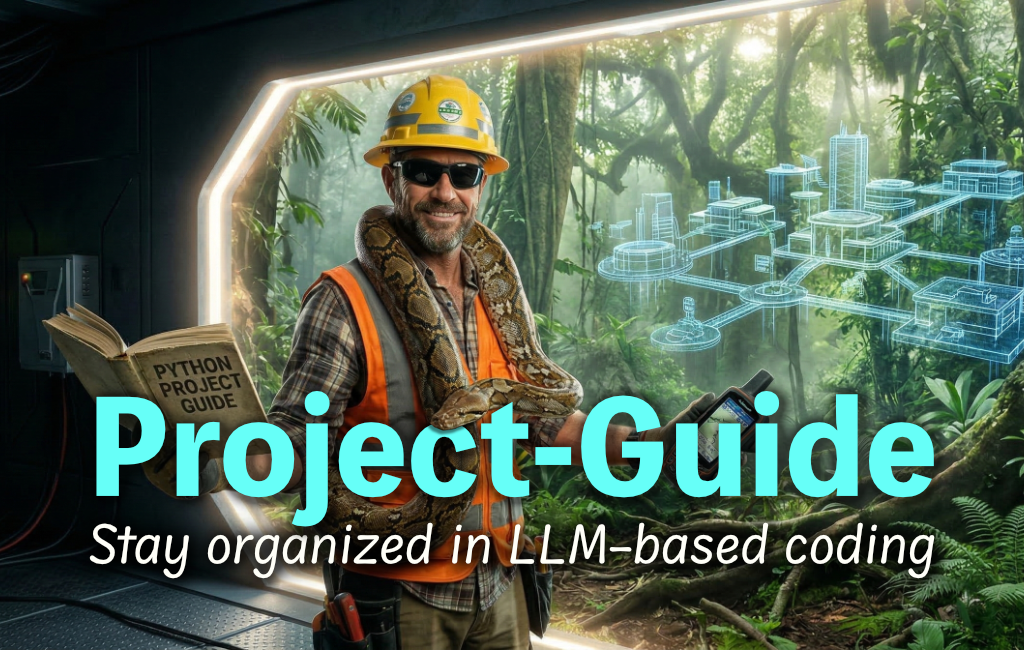
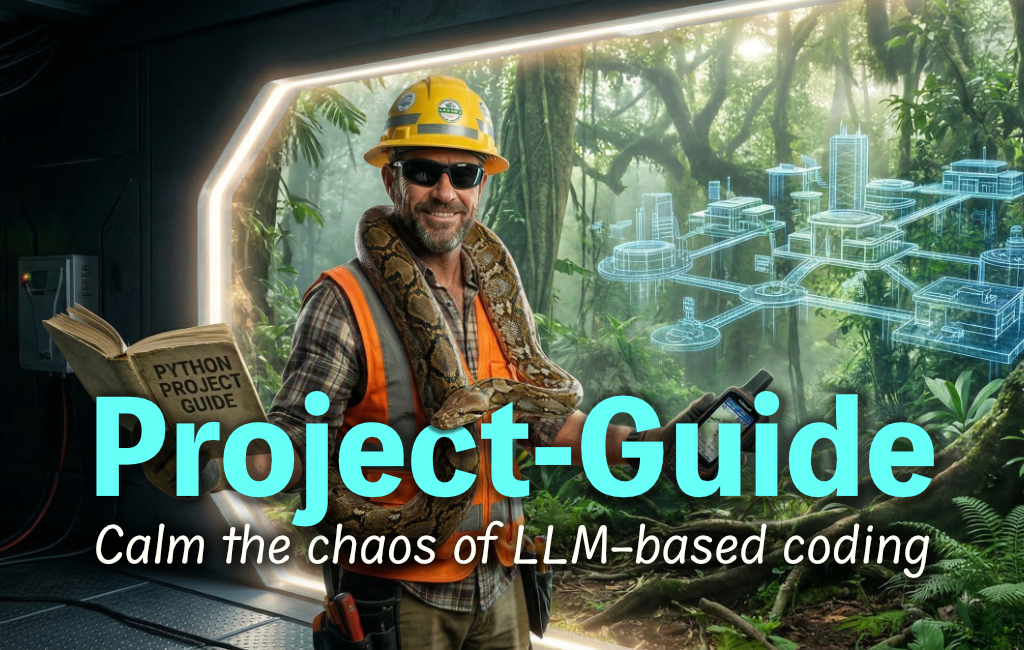
Update README, landing page, and descriptions

Changed region(s): [[0.0938, 0.7692, 0.9375, 0.9231]]

diff --git a/docs/site/index.html b/docs/site/index.html
@@ -4,8 +4,8 @@
     <meta charset="UTF-8">
     <meta name="viewport" content="width=device-width, initial-scale=1.0">
     <title>project-guide - Stay organized in LLM-based coding</title>
-    <meta name="description" content="Stay organized and consistent using LLM workflow guides with project-specific overrides">
-    <meta name="keywords" content="llm, human-in-the-loop, hitloop, documentation, workflow, guides, templates, python, cli, version-management, synchronization, project-management, development-tools, best-practices, override-support, yaml-config, cross-platform">
+    <meta name="description" content="Stay organized and in control with adaptive LLM workflow prompts">
+    <meta name="keywords" content="llm, coding, human-in-the-loop, hitloop, documentation, workflow, guide, templates, python, cli, version-management, synchronization, project-management, development-tools, best-practices, override-support, yaml-config, cross-platform">
     <meta name="author" content="Pointmatic">
     
     <style>
@@ -342,9 +342,7 @@
                 <img src="images/project-guide-banner-landing.png" alt="project-guide banner">
             </div>
             
-            <h1>Stay organized in LLM-based coding</h1>
-            <p class="subtitle">Stay organized and consistent using LLM workflow guides with project-specific overrides</p>
-            
+            <h1>Stay organized and in control with adaptive workflow prompts</h1>
             <div class="hero-description">
                 <p>Install project-guide in any repository with <code>pip install project-guide</code>, run <code>project-guide init</code>, then tell your LLM to "Read <code>docs/guides/project-guide.md</code> and start." The guide walks the LLM through planning documents, breaking work into stories, and implementing each story step-by-step. You just say "proceed" after each step. The developer stays in charge—guiding features, flow, and taste—while the LLM handles the typing.</p>
                 <br>
@@ -411,23 +409,27 @@
                 <div class="feature-grid">
                     <div class="feature-card">
                         <h4>Battle-Tested Workflows</h4>
-                        <p>Crafted guides walk your LLM from project concept through production release—planning docs, stories breakdown, step-by-step implementation.</p>
+                        <p>Crafted workflow prompts from concept through production release in one place.</p>
                     </div>
                     <div class="feature-card">
-                        <h4>Centralized Guide Templates</h4>
-                        <p>Maintain LLM workflow guides in one package and distribute them across all your projects with a single command.</p>
+                        <h4>Adaptive Guidance</h4>
+                        <p>Switch project between plan, code, and debug modes to get the right instructions for each task.</p>
                     </div>
                     <div class="feature-card">
-                        <h4>Smart Version Tracking</h4>
-                        <p>Track which guide versions are installed in each project and update to the latest versions automatically.</p>
+                        <h4>Version Management</h4>
+                        <p>Track and update all prompt docs in a project with a single command.</p>
                     </div>
                     <div class="feature-card">
-                        <h4>Project-Specific Overrides</h4>
-                        <p>Lock customized guides to prevent accidental overwrites while still syncing other guides to latest versions.</p>
+                        <h4>Custom Prompt Lock</h4>
+                        <p>Lock a customized LLM prompt in any project to prevent future updates for that prompt document.</p>
                     </div>
                     <div class="feature-card">
-                        <h4>Sync Latest Improvements</h4>
-                        <p>Pull the newest workflow refinements into all non-overridden guides across projects with one command.</p>
+                        <h4>CLI Interface</h4>
+                        <p>Eight intuitive commands for all operations.</p>
+                    </div>
+                    <div class="feature-card">
+                        <h4>Zero Configuration</h4>
+                        <p>Works out of the box with sensible defaults.</p>
                     </div>
                 </div>
             </div>
@@ -436,20 +438,16 @@
                 <h3>Operational Benefits</h3>
                 <div class="feature-grid">
                     <div class="feature-card">
-                        <h4>Zero Configuration</h4>
-                        <p>Works out of the box with sensible defaults—guides go in <code>docs/guides</code>, no config file needed for basic usage.</p>
-                    </div>
-                    <div class="feature-card">
                         <h4>Clear Status Reporting</h4>
                         <p>See at a glance which guides are current, outdated, overridden, or missing with color-coded status output.</p>
                     </div>
                     <div class="feature-card">
-                        <h4>Automatic Backups</h4>
-                        <p>When updating overridden guides with --force, automatic .bak files preserve your customizations.</p>
+                        <h4>Gentle 'Forced' Updates</h4>
+                        <p>Automatic `.bak` files created if you `--force` update a custom prompt document.</p>
                     </div>
                     <div class="feature-card">
                         <h4>Safe Operations</h4>
-                        <p>Idempotent commands and explicit consent requirements ensure you never lose project-specific customizations.</p>
+                        <p>Idempotent commands and explicit consent requirements protect your project-specific customizations.</p>
                     </div>
                     <div class="feature-card">
                         <h4>Lightweight & Fast</h4>
@@ -461,7 +459,7 @@
                     </div>
                     <div class="feature-card">
                         <h4>Well Tested</h4>
-                        <p>82% test coverage with 59 comprehensive tests ensuring reliability and stability.</p>
+                        <p>Comprehensive test coverage minimum of 75% ensures reliability.</p>
                     </div>
                 </div>
             </div>
@@ -479,7 +477,7 @@
                     </div>
                     <div class="feature-card">
                         <h4>Structured Workflow</h4>
-                        <p>Guides enforce a proven methodology: planning documents, story breakdown, step-by-step implementation, approval gates.</p>
+                        <p>The workflow enforces a focused methodology: planning, coding, debugging, etc. with approval gates for your review.</p>
                     </div>
                 </div>
             </div>

diff --git a/docs/specs/descriptions.md b/docs/specs/descriptions.md
@@ -10,46 +10,48 @@ Canonical source of truth for all descriptive language used across the project. 
 
 ## Tagline
 
-Stay organized in LLM-based coding
+Calm the chaos
 
 ## Long Tagline
 
-Stay organized and consistent using LLM workflow guides with project-specific overrides
+Calm the chaos of LLM-assisted coding 
 
 ## One-liner
 
-Stay organized and consistent using LLM guides across multiple coding projects.
+Stay organized and in control with adaptive LLM workflow prompts
 
 ### Friendly Brief Description (follows one-liner)
 
-Install project-guide in any repository with `pip install project-guide`, run `project-guide init`, then tell your LLM to "Read `docs/guides/project-guide.md` and start." The guide walks the LLM through planning documents, breaking work into stories, and implementing each story step-by-step. You just say "proceed" after each step. The developer stays in charge—guiding features, flow, and taste—while the LLM handles the typing.
+Install project-guide in any repository with `pip install project-guide`, run `project-guide init`, then tell your LLM to "Read `@project-guide.md` (works in many coding tools), or give itthe full path at`docs/project-guide/go-project-guide.md`." The `go-project-guide` prompt provides the LLM with a structured workflow. You just say "go" and the LLM handles each step, pausing for you to review code, test, and commit changes. You stay in charge—guiding features, flow, and taste while the LLM handles the typing.
 
-This is "HITLoop" (human-in-the-loop) development: the developer directs, the LLM executes. The pace is "flaming agile"—an entire production-ready backend can be completed in 6-12 hours. When you customize a guide for your project, mark it as overridden so future package updates skip it. When you want the latest workflow improvements, run `project-guide update` to sync all non-overridden guides. 
+This is "HITLoop" (human-in-the-loop) development: you direct, the LLM executes. The pace is "flaming agile"—an entire production-ready backend can be completed in 6-12 hours. When you customize a prompt for your project, mark it as overridden so future package updates skip it. When you want the latest workflow improvements, run `project-guide update` to sync all non-overridden prompts. 
 
 ## Two-clause Technical Description
 
-A Python CLI tool that installs and synchronizes battle-tested LLM workflow guides across projects, supporting version tracking and project-specific overrides to keep documentation consistent while preserving customizations.
+A Python CLI tool that installs, swaps, and synchronizes battle-tested LLM workflow prompts across projects, supporting version tracking and project-specific overrides to keep documentation consistent while preserving customizations.
 
 ## Benefits
 
-- **Centralized Templates** — Maintain workflow guides (project-guide.md, best-practices-guide.md, debug-guide.md, documentation-setup-guide.md) in one place
-- **Version Management** — Track guide versions across projects and update to latest versions with a single command
-- **Override Support** — Lock specific guides when they contain project-specific customizations, preventing accidental overwrites
-- **Backup Protection** — Automatic `.bak` file creation when updating overridden guides with `--force` flag
-- **CLI Interface** — Seven intuitive commands: init, status, update, override, unoverride, overrides, purge
-- **Zero Configuration** — Works with sensible defaults (docs/guides directory, no config required for basic use)
+- **Battle-Tested Workflows** - Crafted workflow prompts from concept through production release in one place
+- **Adaptive** — Switch project between plan, code, and debug modes to get the right instructions for each task
+- **Version Management** — Track and update all prompt docs in a project with a single command
+- **Customization Lock** - Lock customized prompts to prevent update overwrites
+- **Gentle Force Updates** — Automatic `.bak` files created if you `--force` update a custom prompt document
+- **CLI Interface** — Eight intuitive commands for all operations
+- **Zero Configuration** — Works with sensible defaults out of the box
 - **Cross-Platform** — Runs on macOS, Linux, and Windows with Python 3.11+
-- **Well Tested** — 82% test coverage with 53 comprehensive tests ensuring reliability
+- **Well Tested** — Comprehensive test coverage for reliability
 - **Lightweight** — Minimal dependencies (click, pyyaml, packaging) for fast installation
-- **Safe Operations** — Never overwrites customized guides without explicit consent, idempotent commands
 
 ## Technical Description
 
-Project-Guide is a Python CLI tool that solves the problem of keeping LLM workflow documentation synchronized with an opinionated source of truthacross multiple projects. Just install the PyPI package with `pip` in any repository and start planning and coding with the LLM. It packages canonical versions of development guides (project-guide.md, best-practices-guide.md, debug-guide.md, documentation-setup-guide.md, and more) and provides commands to install, update, and manage them in a `docs/guides` directory in the repo. The tool tracks which package versions were installed for each guide, allows a project to lock specific guides when customized, and provides clear status reporting. It uses a simple YAML configuration file (`.project-guide.yml`) to store project-specific settings and override metadata. The package is distributed via PyPI and can be installed with `pip` locally or `pipx` for system-wide CLI access.
+Project-Guide is a Python CLI tool that solves the problem of keeping LLM workflow documentation synchronized with an opinionated source of truthacross multiple projects. Just install the PyPI package with `pip` in any repository and start planning and coding with the LLM. It packages canonical versions of LLM prompts and provides commands to install, update, and manage them in a `docs/project-guide` directory in any project repo. 
+
+The tool tracks which package versions were installed for each guide, allows a project to lock specific guides when customized, and provides clear status reporting. It uses a simple YAML configuration file (`.project-guide.yml`) to store project-specific settings and override metadata. The package is distributed via PyPI and can be installed with `pip` locally or `pipx` for system-wide CLI access.
 
 ## Keywords
 
-`llm`, `human-in-the-loop`, `hitloop`, `documentation`, `workflow`, `guides`, `templates`, `python`, `cli`, `version-management`, `synchronization`, `project-management`, `development-tools`, `best-practices`, `override-support`, `yaml-config`, `cross-platform`
+`llm`, `coding`, `human-in-the-loop`, `hitloop`, `documentation`, `workflow`, `guide`, `templates`, `python`, `cli`, `version-management`, `synchronization`, `project-management`, `development-tools`, `best-practices`, `override-support`, `yaml-config`, `cross-platform`
 
 ---
 
@@ -59,9 +61,9 @@ Essential steps for getting started with project-guide:
 
 1. **Install**: `pip install project-guide` (or `pipx install project-guide` for system-wide CLI)
 2. **Initialize**: Navigate to your project directory and run `project-guide init`
-3. **Start**: Tell your LLM: "Read `docs/guides/project-guide.md` and start."
-4. **Collaborate**: Say "proceed" after each step as the LLM walks through planning, stories, and implementation
-5. **Customize**: Mark guides as overridden when you customize them: `project-guide override <guide-name>`
+3. **Start**: Tell your LLM: "Read `docs/project-guide/go-project-guide.md`."
+4. **Collaborate**: Say "go" after each step as the LLM walks through planning, stories, and implementation
+5. **Customize**: Mark a prompt document as overridden if you customize it: `project-guide override <filename>`
 6. **Update**: Pull latest workflow improvements: `project-guide update`
 7. **Check Status**: See which guides are current, outdated, or overridden: `project-guide status`
 
@@ -75,32 +77,31 @@ Short blurbs for landing pages and feature grids. Each card has a title and a on
 
 | # | Title | Description |
 |---|-------|-------------|
-| 1 | Battle-Tested Workflows | Crafted guides walk your LLM from project concept through production release—planning docs, stories breakdown, step-by-step implementation. |
-| 2 | Centralized Guide Templates | Maintain LLM workflow guides in one package and distribute them across all your projects with a single command. |
-| 3 | Smart Version Tracking | Track which guide versions are installed in each project and update to the latest versions automatically. |
-| 4 | Project-Specific Overrides | Lock customized guides to prevent accidental overwrites while still syncing other guides to latest versions. |
-| 5 | Sync Latest Improvements | Pull the newest workflow refinements into all non-overridden guides across projects with one command. |
+| 1 | Battle-Tested Workflows | Crafted workflow prompts from concept through production release in one place |
+| 2 | Adaptive Guidance | Switch project between plan, code, and debug modes to get the right instructions for each task |
+| 3 | Version Management | Track and update all prompt docs in a project with a single command |
+| 4 | Custom Prompt Lock | Lock a customized LLM prompt in any project to prevent future updates for that prompt document |
+| 5 | CLI Interface | Eight intuitive commands for all operations |
+| 6 | Zero Configuration | Works out of the box with sensible defaults |
 
 ### Operational Benefits
 
 | # | Title | Description |
 |---|-------|-------------|
-| 6 | Zero Configuration | Works out of the box with sensible defaults—guides go in `docs/guides`, no config file needed for basic usage. |
-| 7 | Clear Status Reporting | See at a glance which guides are current, outdated, overridden, or missing with color-coded status output. |
-| 8 | Automatic Backups | When updating overridden guides with --force, automatic .bak files preserve your customizations. |
-| 9 | Safe Operations | Idempotent commands and explicit consent requirements ensure you never lose project-specific customizations. |
-| 10 | Lightweight & Fast | Minimal dependencies (click, pyyaml, packaging) mean fast installation and no bloat. |
-| 11 | Cross-Platform | Runs on macOS, Linux, and Windows with Python 3.11+ for consistent workflows everywhere. |
-| 12 | Well Tested | 82% test coverage with 53 comprehensive tests ensuring reliability and stability. |
+| 7 | Clear Status Reporting | See at a glance which prompt documents are current, outdated, overridden, or missing with color-coded status output |
+| 8 | Gentle 'Forced' Updates | Automatic `.bak` files created if you `--force` update a custom prompt document |
+| 9 | Safe Operations | Idempotent commands and explicit consent requirements protect your project-specific customizations |
+| 10 | Lightweight | Minimal dependencies (click, pyyaml, packaging) mean fast installation and no bloat |
+| 11 | Cross-Platform | Runs on macOS, Linux, and Windows with Python 3.11+ for consistent workflows everywhere |
+| 12 | Well Tested | Comprehensive test coverage minimum of 75% ensures reliability |
 
 ### Development Philosophy
 
 | # | Title | Description |
 |---|-------|-------------|
-| 13 | HITLoop Development | You direct features, flow, and taste. The LLM handles the typing. Human-in-the-loop collaboration at its best. |
-| 14 | Flaming Agile Pace | Complete an entire production-ready backend in 6-12 hours with structured, methodical LLM collaboration. |
-| 15 | Structured Workflow | Guides enforce a proven methodology: planning documents, story breakdown, step-by-step implementation, approval gates. |
-
+| 13 | HITLoop Development | You direct features, flow, and taste. The LLM handles the typing. Human-in-the-loop collaboration at its best |
+| 14 | Flaming Agile Pace | Complete an entire production-ready backend in 6-12 hours with structured, methodical LLM collaboration |
+| 15 | Structured Workflow | The workflow enforces a focused methodology: planning, coding, debugging, etc. with approval gates for your review |
 
 ---
 
@@ -108,12 +109,10 @@ Short blurbs for landing pages and feature grids. Each card has a title and a on
 
 | File | Which descriptions to use |
 |------|--------------------------|
-| `README.md` line 8 | Two-clause Technical Description (shortened to one sentence) |
-| `README.md` line 12 | Friendly Brief Description (first sentence) |
-| `docs/site/index.html` hero `<h1>` | Tagline |
-| `docs/site/index.html` hero subtitle | Long Tagline |
-| `docs/site/index.html` feature grid | Feature Cards |
-| `pyproject.toml` description | Long Tagline |
-| `docs/specs/features.md` line 11 | Two-clause Technical Description |
-| GitHub Repository description | One-liner + ": " + Long Tagline |
-| GitHub Repository topics | Keywords (without backticks) |
+| `README.md` line 9 | Two-clause Technical Description |
+| `README.md` line 17 | Benefits (inline) |
+| `docs/index.html` hero `<h1>` | One-liner |
+| `docs/index.html` hero `<p>` | Friendly Brief Description |
+| `docs/index.html` feature grid | Feature Cards |
+| `pyproject.toml` description | One-liner |
+| (GitHub Repository) | Tagline + ": "+ One-liner |

diff --git a/README.md b/README.md
@@ -6,7 +6,7 @@
 [![PyPI](https://img.shields.io/pypi/v/project-guide.svg)](https://pypi.org/project/project-guide/)
 [![Documentation](https://img.shields.io/badge/docs-GitHub%20Pages-blue)](https://pointmatic.github.io/project-guide/)
 
-A Python CLI tool that installs and synchronizes battle-tested LLM workflow guides across projects, supporting version tracking and project-specific overrides to keep documentation consistent while preserving customizations.
+A Python CLI tool that installs, swaps, and synchronizes battle-tested LLM workflow prompts across projects, supporting version tracking and project-specific overrides to keep documentation consistent while preserving customizations.
 
 ## Why project-guide?
 
@@ -15,11 +15,12 @@ Install project-guide in any repository with `pip install project-guide`, run `p
 This is "HITLoop" (human-in-the-loop) development: the developer directs, the LLM executes. The pace is "flaming agile"—an entire production-ready backend can be completed in 6-12 hours.
 
 **Key Features:**
-- 📚 **Battle-Tested Workflows** - Crafted guides from concept through production release
-- 🔄 **Version Management** - Track and update guides across projects automatically
-- ✏ **Project-Specific Overrides** - Lock customized guides to prevent overwrites
-- 🔒 **Automatic Backups** - Preserve customizations when forcing updates
-- 🎨 **CLI Interface** - Seven intuitive commands for all operations
+- 📚 **Battle-Tested Workflows** - Crafted workflow prompts from concept through production release in one place
+- **Adaptive** — Switch project between plan, code, and debug modes to get the right instructions for each task
+- 🔄 **Version Management** - Track and update all prompt docs in a project with a single command
+- 🔒 **Custom Doc Lock** - Lock customized prompts to prevent update overwrites
+- **Gentle Force Updates** — Automatic `.bak` files created if you `--force` update a custom prompt document
+- 🎨 **CLI Interface** - Eight intuitive commands for all operations
 - 🧪 **Well Tested** - 82% test coverage with 59 comprehensive tests
 - ⚡ **Zero Configuration** - Works with sensible defaults out of the box
 - 🌐 **Cross-Platform** - Runs on macOS, Linux, and Windows with Python 3.11+

diff --git a/docs/specs/stories.md b/docs/specs/stories.md
@@ -97,11 +97,17 @@ Admin tasks with no code changes. No version bump.
   - [x] `README.md` badges and links
   - [x] `pyproject.toml` `[project.urls]` section
   - [x] Any guide files referencing the repo URL
-- [ ] Archive old `project-guides` PyPI package
-  - [ ] Publish a final `project-guides` release with updated README/description: "This package has moved to `project-guide`. Please update your dependencies."
-  - [ ] Go to PyPI → `project-guides` → Settings → Archive project
+- [x] Archive old `project-guides` PyPI package
+  - [x] Publish a final `project-guides` release with updated README/description: "This package has moved to `project-guide`. Please update your dependencies."
+  - [x] Go to PyPI → `project-guides` → Settings → Archive project
 - [x] Update `mkdocs.yml` site URL if applicable
-- [ ] Verify: all links resolve correctly
+- [x] Verify: all links resolve correctly
+
+### Story I.f: Update README, landing page, and descriptions [Planned]
+- [x] Update `docs/specs/descriptions.md` to reflect new package name and concepts (guides -> guide/prompts)
+- [x] Update `README.md` based on `docs/specs/description.md`
+- [x] Update landing page based on `docs/specs/description.md`
+- [x] Add Codecov badge to `README.md` and set minimum coverage to 75%
 
 ---
 

diff --git a/docs/guides/README.md b/docs/guides/README.md
@@ -1,3 +1,5 @@
+[![codecov](https://codecov.io/gh/pointmatic/project-guide/graph/badge.svg)](https://codecov.io/gh/pointmatic/project-guide)
+
 # Guides Directory
 
 This directory contains documentation for LLM-assisted development workflows and developer reference materials.
